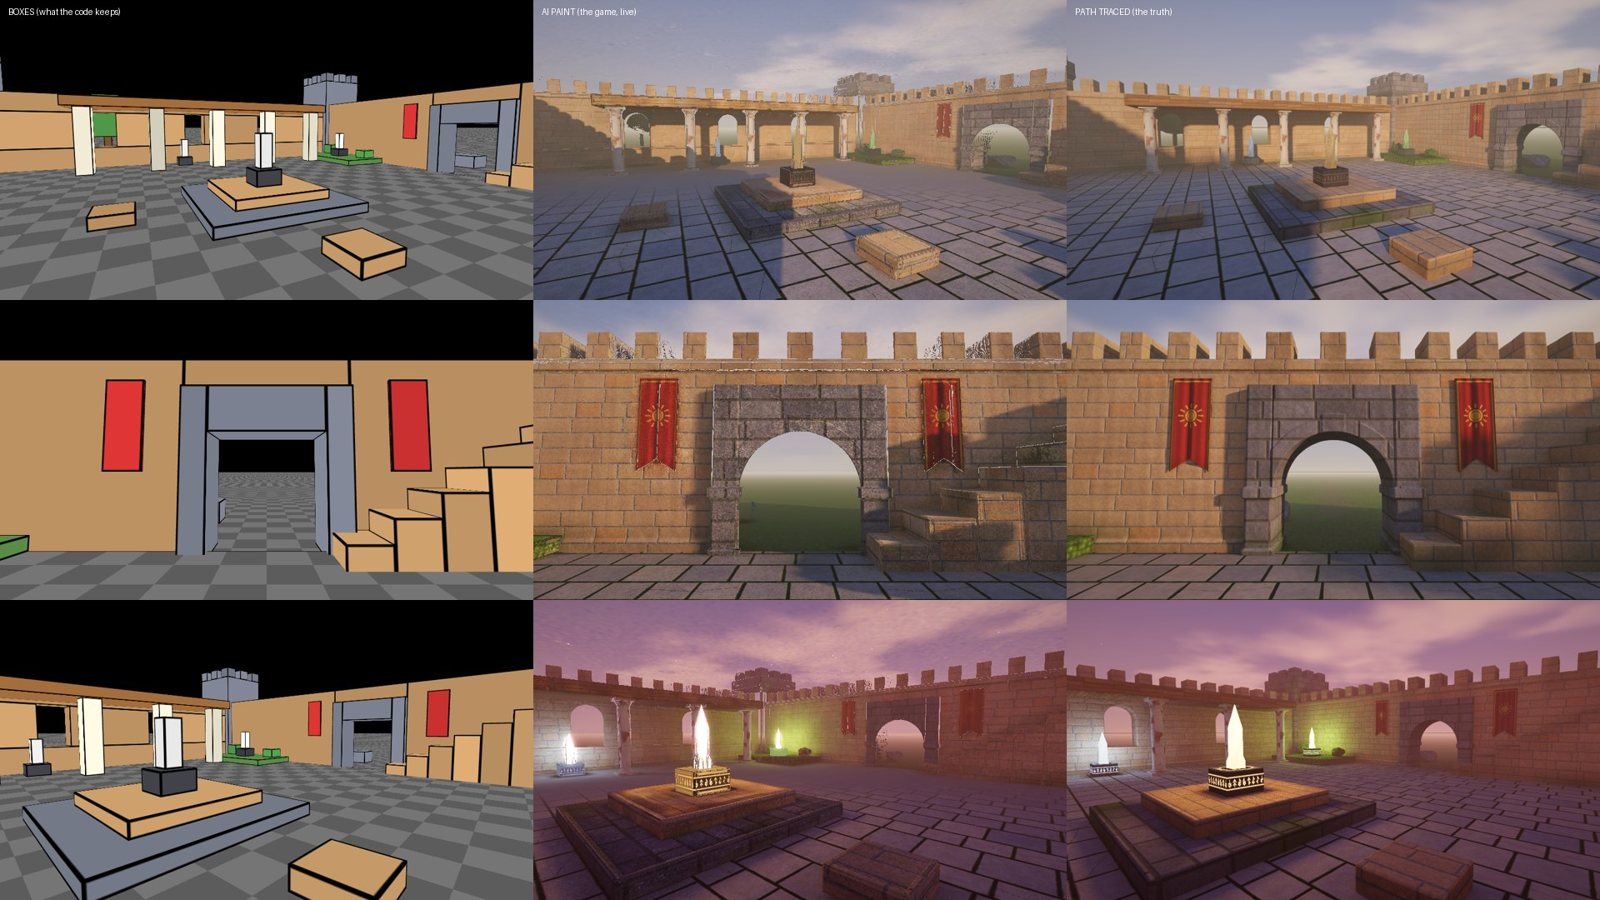
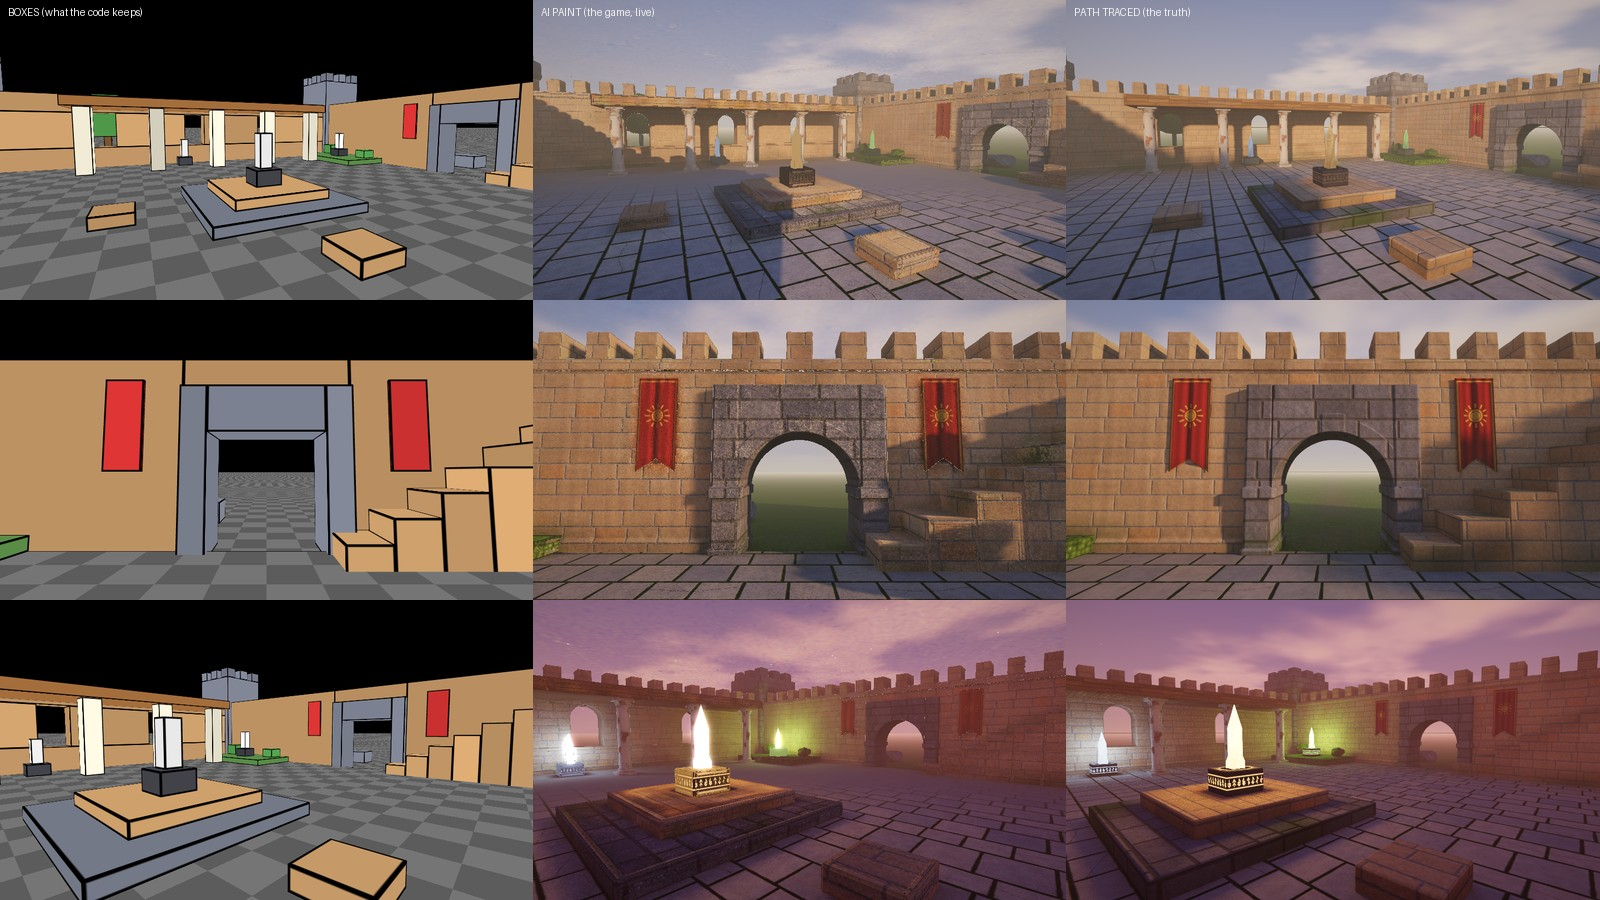
Paintbox 2.0.1: the edges come clean
The geometry pass placed a shape's surface with one step of its distance along the ray. A ray that meets a face at a slant closes
on it slower than its distance says, so the step stopped short and the pixel was dropped: the sky showed through the battlements'
side faces in streaks. Now the step is the distance over the ray's closing speed, read off the coarse field's slope (three of its
fetches, no network), but only where the coarse field slopes like a distance, and the plain step is taken where the slanted one
leaves the ray further off. The last correction is always the plain distance: one divided by a wrong slope landed inside the
stone, turned the normal and streaked the pattern across a stair block. A ray that only passes an edge goes on along the shape, on
the coarse distance, to what of it the ray meets behind, inside its shell (the light lines along the copings and the capitals go),
and the trace lets a ray that grazes a shape go on, so a shape behind it can be the one a pixel sees.

Measured on the M1: 16-23 ms a frame at 960x540 on the three evidence cameras (was 12-19); 33-46 fps in Chromium and WebKit at a
desktop's size and a phone's, upright and turned, every one booted with no errors; the rules 12/12. The README's numbers and its
comparison picture are remade from this build; the skill (2.0.1) carries the fault and its fix.

The gameplay recorder takes a picture size (w, h), for square footage.
[…]

diff --git a/game/render.js b/game/render.js
@@ -203,6 +203,24 @@ ${OCT}
 uniform highp sampler2D uSId; uniform highp sampler2D uSDepth; uniform highp sampler2D uInst;
 uniform mat4 uInvViewProj; uniform mat4 uViewProj; uniform vec2 uRes; uniform vec3 uEye;
 out vec4 oGeom;
+// how fast a ray closes on the surface, a metre along it, off the coarse distance's slope (three of its fetches, no network): a ray
+// that meets a face at a slant closes slower than its distance says. Where the coarse field is no distance (it runs flat), 1
+float closing(int f, vec3 x, vec3 h, vec3 rl) {
+  float dc = shapeCoarse(f, x, h);
+  vec3 g = vec3(shapeCoarse(f, x + vec3(0.01, 0.0, 0.0), h), shapeCoarse(f, x + vec3(0.0, 0.01, 0.0), h), shapeCoarse(f, x + vec3(0.0, 0.0, 0.01), h)) - dc;
+  float gl = length(g);
+  return gl > 0.005 ? max(-dot(rl, g / gl), 0.2) : 1.0;
+}
+// one step onto the network's surface along the ray: its distance over the closing speed, or the distance alone where that step
+// would leave the ray further off (a slope the coarse field got wrong); d is what is left. True when the surface is within 4 mm
+bool placeOn(int f, inout vec3 x, vec3 h, vec3 rl, out float d) {
+  float d0 = shapeFine(f, x, h);
+  vec3 x1 = x + rl * clamp(d0 / closing(f, x, h, rl), -0.05, 0.05);
+  d = shapeFine(f, x1, h);
+  if (abs(d) > abs(d0)) { x1 = x + rl * clamp(d0, -0.02, 0.02); d = shapeFine(f, x1, h); }
+  x = x1;
+  return abs(d) <= 0.004;
+}
 void main() {
   ivec2 px = ivec2(gl_FragCoord.xy);
   vec4 idv = texelFetch(uSId, px, 0);
@@ -221,11 +239,26 @@ void main() {
   if (face > 0.5) { float a = floor((face - 1.0) / 2.0); nl = vec3(a < 0.5 ? 1.0 : 0.0, a > 0.5 && a < 1.5 ? 1.0 : 0.0, a > 1.5 ? 1.0 : 0.0) * (mod(face - 1.0, 2.0) > 0.5 ? 1.0 : -1.0); }
   else {
     vec3 rl = toLocalR(normalize(P - uEye), t1.xy, swap);
-    x += rl * clamp(shapeFine(f, x, h), -0.02, 0.02);
-    float d0 = shapeFine(f, x, h);
-    // a ray that only grazed the shape (the coarse distance came within a centimetre of an edge it passes): no surface here
-    if (abs(d0) > 0.004) discard;
-    x += rl * d0;
+    float d0;
+    if (!placeOn(f, x, h, rl, d0)) {
+      // the ray only passed by an edge (the coarse distance rounds an edge out by up to a cell): go on along it, on the coarse
+      // distance, to what of this shape it meets behind, inside its shell (else nothing of it is here)
+      vec3 lo = -h - texelFetch(uInst, ivec2(3, i), 0).xyz, hi = h + texelFetch(uInst, ivec2(4, i), 0).xyz;
+      bool met = false;
+      x += rl * 0.01;
+      for (int j = 0; j < 8; j++) {
+        float dj = shapeCoarse(f, x, h);
+        if (dj < 0.01) {
+          vec3 xj = x;
+          if (placeOn(f, xj, h, rl, d0)) { x = xj; met = true; break; }
+          dj = 0.01;
+        }
+        x += rl * dj;
+        if (any(lessThan(x, lo)) || any(greaterThan(x, hi))) break;
+      }
+      if (!met) discard;
+    }
+    x += rl * d0;   // the last of it, a plain step of the distance: never past the surface
     vec4 clip = uViewProj * vec4(t0.xyz + fromLocalR(x, t1.xy, swap), 1.0);
     z = clamp(clip.z / clip.w * 0.5 + 0.5, 0.0, 1.0);
     nl = shapeNormalAt(f, x, h, 0.0);

diff --git a/game/painter.js b/game/painter.js
@@ -424,8 +424,16 @@ bool shapeTraceCoarse(int f, vec3 ro, vec3 rd, vec3 lo, vec3 hi, vec3 h, out vec
     x = ro + rd * t; fn = t0 == mn.x ? vec3(-sign(rd.x), 0, 0) : (t0 == mn.y ? vec3(0, -sign(rd.y), 0) : vec3(0, 0, -sign(rd.z)));
     return true;
   }
-  for (int i = 0; i < 48; i++) {
-    if (d < 0.01) { x = ro + rd * t; return true; }
+  for (int i = 0; i < 64; i++) {
+    if (d < 0.01) {
+      // near a surface, or only passing close by one: a centimetre on, a ray that meets it is nearer still, one that grazes an edge is
+      // moving away again (keep going: a shape behind it may be the one this pixel sees)
+      float d2 = shapeCoarse(f, ro + rd * (t + 0.01), h);
+      if (d2 < d || d < 0.002) { x = ro + rd * t; return true; }
+      t += 0.01; d = d2;
+      if (t > t1) return false;
+      continue;
+    }
     t += d * 0.9;
     if (t > t1) return false;
     d = shapeCoarse(f, ro + rd * t, h);

diff --git a/skills/paintbox/SKILL.md b/skills/paintbox/SKILL.md
@@ -9,7 +9,7 @@ metadata:
 
 # Paintbox
 
-**Skill version:** 2.0.0
+**Skill version:** 2.0.1
 **For:** any coding agent (Claude Code, Codex, Cursor, ChatGPT) asked for a game whose look is painted by AI, in the browser, on any GPU.
 **Design rule:** **The code keeps the world as boxes. The painters paint what you see, the shapes too. The detail lives only in training.**
 
@@ -118,8 +118,8 @@ pixel, the surface painter paints it.
 1. **The truth, side by side** (`npm run look`, then `bake/sheet.py` for a sheet): the same cameras in the game and in the path
    tracer. The trainers print their errors at points they never trained on (the example: the shapes within 0.28 mm, the look
    within 3.6 levels out of 255 on screen).
-2. **The frame time** (`look` prints it; the example paints a 960×540 frame in 11–18 ms on an M1) and the frame rate at a phone's
-   size (`npm run devices`: the example 35–49 fps in both engines on the M1).
+2. **The frame time** (`look` prints it; the example paints a 960×540 frame in 16–23 ms on an M1) and the frame rate at a phone's
+   size (`npm run devices`: the example 33–46 fps in both engines on the M1).
 3. **The rules** (`npm test`).
 4. **The platform's playtest** in Chromium and WebKit (section 5). A phone emulated on a computer is not a phone: say "phone-sized"
    until the person has played it on theirs.
@@ -132,7 +132,15 @@ Faults already met, and their fixes:
   network place the surface once a pixel; keep the still world's shadow map until the sun moves.
 - *Grain on shaped surfaces*: a normal taken over a millimetre or two reads the network's own error. Take it over a centimetre.
 - *Specks on silhouettes*: a ray that grazes an edge comes within a centimetre on the coarse distance; drop a hit the network puts
-  more than a few millimetres off the surface.
+  more than a few millimetres off the surface, and let the trace go on past a graze (a shape behind may be the one the pixel sees).
+- *Streaks of sky through a face the eye sees at a slant, light lines along edges*: one step of the network's distance along the
+  ray stops short of a face the ray meets at a slant (it closes on it slower than its distance says), and the hit is then dropped.
+  Step by the distance over the ray's closing speed (the coarse distance's slope along the ray: three of its fetches, no network),
+  but only where the coarse field slopes like a distance, and take the plain step where the slanted one leaves the ray further
+  off; the last correction is always the plain distance (a correction divided by a wrong slope lands inside the stone, the normal
+  turns and the pattern streaks across the face). A ray that only passes an edge (the coarse distance rounds an edge out by up to
+  a cell) goes on along the shape, on the coarse distance, to what of it the ray meets behind, inside its shell. About 4 ms a
+  frame on the M1.
 - *A form's flat faces never taught*: a point placed on a shape whose surface is its box's own face sits on the shell's boundary;
   count the boundary as inside.
 - *Grain on a bright material in close-up*: the training points were noisy or few. More light paths a point, more points on that

diff --git a/README.md b/README.md
@@ -5,7 +5,7 @@ GPU.**
 
 ![The same three cameras: the boxes the code keeps, the frame the AI paints live in the browser, and the path-traced truth it learned from](media/evidence.jpg)
 
-*Left: what the code draws. Middle: what the painters paint from it, live, in 11–18 ms a frame on a 2020 M1 MacBook: the
+*Left: what the code draws. Middle: what the painters paint from it, live, in 16–23 ms a frame on a 2020 M1 MacBook: the
 battlements, the arches, the round columns and the banners' tails are the shape painter's, not the code's. Right: the path-traced
 truth they learned from, about a minute a frame.*
 
@@ -97,8 +97,8 @@ moves in `bake/shots.json`; `npm run gameplay` records a bot playing by the rule
 |---|---|
 | What the painters learned | 14,333,483 numbers, 15.5 MB (4,303 network weights; the rest are feature grids and textures) |
 | How close to the path tracer | the shapes within 0.28 mm of the true surface, the look within 3.6 levels out of 255 on screen, on average, at points they never trained on |
-| One 960×540 frame | 11–18 ms painted (three cameras), against 46–73 s path-traced at 128 paths a pixel |
-| In a browser | 35–49 fps in Chrome's and Safari's engines, at a desktop's 1280×800 and a phone's 775×1677, upright and turned (on the M1; a real phone is not measured yet) |
+| One 960×540 frame | 16–23 ms painted (three cameras), against 46–73 s path-traced at 128 paths a pixel |
+| In a browser | 33–46 fps in Chrome's and Safari's engines, at a desktop's 1280×800 and a phone's 775×1677, upright and turned (on the M1; a real phone is not measured yet) |
 | Making it | about 40 minutes: path tracing the shaped world on the GPU, then training the four painters on the CPU |
 
 ## What it is not
